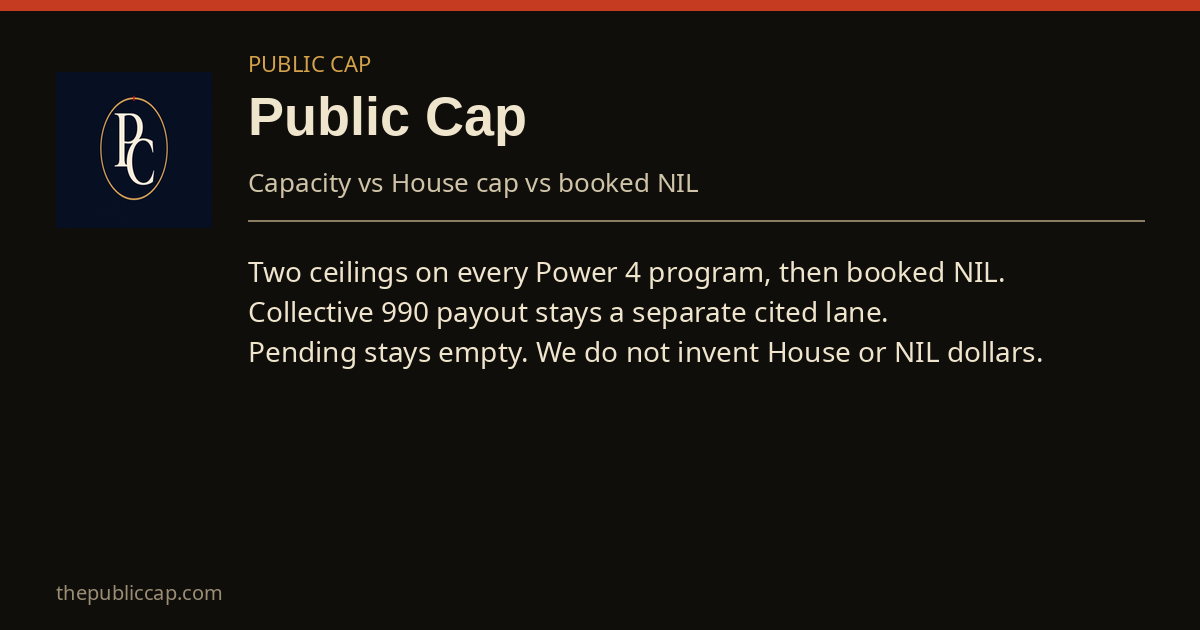
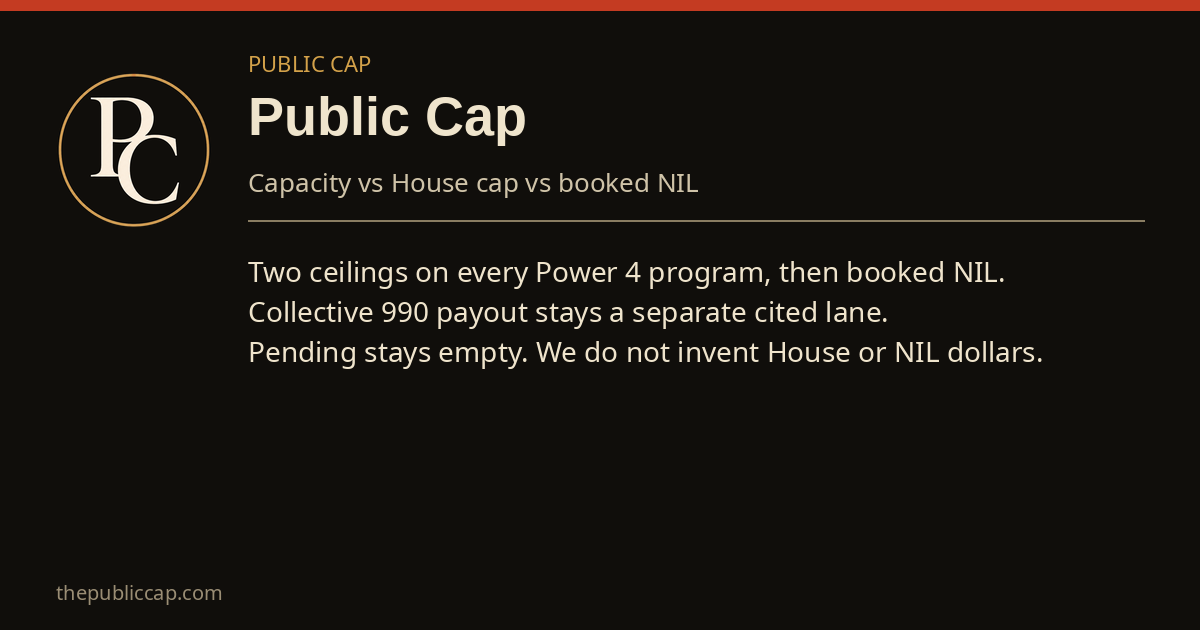
Center the gold PC mark on share cards. (#47)
Heal the 12-o'clock red dash, crop a circular gold-PC lockup, and paste it on the card ink instead of squashing the landscape navy plate into a square tile. Card copy stays the shipped LSU / Texas / SI SEC phrases.

Changed region(s): [[0.0308, 0.0905, 0.185, 0.3619]]

diff --git a/scripts/write-og-images.py b/scripts/write-og-images.py
@@ -4,6 +4,12 @@
 Survey cells that are phrases stay phrases. No invented ranking bars.
 Does not touch data/ or leftover math.
 
+The source mark is a gold PC ring on a landscape navy plate (or a cleaned
+square crop of that ring). We heal the stray red dash at 12 o'clock, crop a
+square around the ring, punch a circular alpha, and flatten the noisy navy
+fill to the card ink so the mark sits on the card — not in a clipped square
+tile. Resize keeps the circle circular.
+
 Run: python3 scripts/write-og-images.py
 """
 from __future__ import annotations
@@ -26,6 +32,7 @@ MUTED = (154, 141, 116, 255)
 RULE = (138, 125, 98, 255)
 
 W, H = 1200, 630
+SITE_MARK_PX = 276  # 3× the 92px mast well
 
 
 def font(path: str, size: int) -> ImageFont.FreeTypeFont:
@@ -50,10 +57,144 @@ def load_fonts() -> dict[str, ImageFont.FreeTypeFont]:
     }
 
 
-def paste_mark(card: Image.Image, dest: tuple[int, int], size: int) -> None:
-    mark = Image.open(MARK).convert("RGBA")
-    mark = mark.resize((size, size), Image.Resampling.LANCZOS)
-    card.paste(mark, dest, mark)
+def _is_red_dash(pixel: tuple[int, ...]) -> bool:
+    r, g, b = pixel[0], pixel[1], pixel[2]
+    return r > 160 and g < 40 and b < 40
+
+
+def _is_gold_ring(pixel: tuple[int, ...]) -> bool:
+    r, g, b, a = pixel[0], pixel[1], pixel[2], pixel[3] if len(pixel) > 3 else 255
+    if a < 16:
+        return False
+    return r > 140 and g > 90 and b < 140 and r > b + 30
+
+
+def _is_navy_fill(pixel: tuple[int, ...]) -> bool:
+    r, g, b, a = pixel[0], pixel[1], pixel[2], pixel[3] if len(pixel) > 3 else 255
+    if a < 16:
+        return False
+    return r < 40 and g < 40 and b < 55
+
+
+def heal_red_dash(im: Image.Image) -> Image.Image:
+    """Replace the 12-o'clock red tick with left/right ring or field neighbors."""
+    im = im.copy()
+    px = im.load()
+    w, h = im.size
+    red: list[tuple[int, int]] = []
+    for y in range(h):
+        for x in range(w):
+            if _is_red_dash(px[x, y]):
+                red.append((x, y))
+    if not red:
+        return im
+    red_set = set(red)
+    for x, y in red:
+        left = right = None
+        for dx in range(1, 32):
+            if left is None and x - dx >= 0 and (x - dx, y) not in red_set:
+                left = px[x - dx, y]
+            if right is None and x + dx < w and (x + dx, y) not in red_set:
+                right = px[x + dx, y]
+            if left is not None and right is not None:
+                break
+        if left is not None and right is not None:
+            px[x, y] = tuple((a + b) // 2 for a, b in zip(left, right))
+        elif left is not None:
+            px[x, y] = left
+        elif right is not None:
+            px[x, y] = right
+    return im
+
+
+def _gold_ring_box(im: Image.Image) -> tuple[float, float, float]:
+    px = im.load()
+    w, h = im.size
+    minx, miny, maxx, maxy = w, h, -1, -1
+    for y in range(h):
+        for x in range(w):
+            if _is_gold_ring(px[x, y]):
+                if x < minx:
+                    minx = x
+                if y < miny:
+                    miny = y
+                if x > maxx:
+                    maxx = x
+                if y > maxy:
+                    maxy = y
+    if maxx < 0:
+        # Already a tight transparent crop — use opaque bounds.
+        minx, miny, maxx, maxy = w, h, -1, -1
+        for y in range(h):
+            for x in range(w):
+                if px[x, y][3] > 16:
+                    if x < minx:
+                        minx = x
+                    if y < miny:
+                        miny = y
+                    if x > maxx:
+                        maxx = x
+                    if y > maxy:
+                        maxy = y
+    if maxx < 0:
+        return w / 2, h / 2, min(w, h) / 2
+    return (minx + maxx) / 2, (miny + maxy) / 2, max(maxx - minx, maxy - miny) / 2
+
+
+def circular_mark(im: Image.Image) -> Image.Image:
+    """Square crop centered on the gold ring, circular alpha, ink field."""
+    im = heal_red_dash(im.convert("RGBA"))
+    cx, cy, rad = _gold_ring_box(im)
+    pad = max(6, int(round(rad * 0.024)))
+    side = int(round(rad * 2 + pad * 2))
+    left = int(round(cx - side / 2))
+    top = int(round(cy - side / 2))
+    canvas = Image.new("RGBA", (side, side), (0, 0, 0, 0))
+    src_w, src_h = im.size
+    crop_left = max(0, left)
+    crop_top = max(0, top)
+    crop_right = min(src_w, left + side)
+    crop_bottom = min(src_h, top + side)
+    region = im.crop((crop_left, crop_top, crop_right, crop_bottom))
+    canvas.paste(region, (crop_left - left, crop_top - top))
+
+    ccx = side / 2 - 0.5
+    ccy = side / 2 - 0.5
+    outer = rad + 3
+    px = canvas.load()
+    for y in range(side):
+        for x in range(side):
+            d = ((x - ccx) ** 2 + (y - ccy) ** 2) ** 0.5
+            r, g, b, a = px[x, y]
+            if _is_navy_fill((r, g, b, a)):
+                r, g, b = INK[0], INK[1], INK[2]
+            if d >= outer + 1.5:
+                px[x, y] = (r, g, b, 0)
+            elif d > outer - 1.5:
+                t = max(0.0, min(1.0, (outer + 1.5 - d) / 3.0))
+                px[x, y] = (r, g, b, int(a * t))
+            else:
+                px[x, y] = (r, g, b, a)
+    return canvas
+
+
+def prepare_mark(source: Image.Image | None = None) -> Image.Image:
+    if source is None:
+        source = Image.open(MARK)
+    return circular_mark(source)
+
+
+def write_site_mark(mark: Image.Image) -> Path:
+    """Ship a square circular mark for the 92px mast (3×)."""
+    out = mark.resize((SITE_MARK_PX, SITE_MARK_PX), Image.Resampling.LANCZOS)
+    out.save(MARK, "PNG", optimize=True)
+    return MARK
+
+
+def paste_mark(card: Image.Image, dest: tuple[int, int], size: int, mark: Image.Image) -> None:
+    # Contain into a square well. Source is already a centered circle.
+    tile = mark.resize((size, size), Image.Resampling.LANCZOS)
+    card.paste(tile, dest, tile)
 
 
 def paint_frame(draw: ImageDraw.ImageDraw, fonts: dict[str, ImageFont.FreeTypeFont]) -> None:
@@ -61,11 +202,11 @@ def paint_frame(draw: ImageDraw.ImageDraw, fonts: dict[str, ImageFont.FreeTypeFo
     draw.text((248, 48), "PUBLIC CAP", font=fonts["kicker"], fill=GOLD)
 
 
-def write_default(fonts: dict[str, ImageFont.FreeTypeFont]) -> Path:
+def write_default(fonts: dict[str, ImageFont.FreeTypeFont], mark: Image.Image) -> Path:
     card = Image.new("RGBA", (W, H), INK)
     draw = ImageDraw.Draw(card)
     paint_frame(draw, fonts)
-    paste_mark(card, (56, 72), 156)
+    paste_mark(card, (56, 72), 156, mark)
     draw.text((248, 86), "Public Cap", font=fonts["title"], fill=PAPER)
     draw.text(
         (248, 164),
@@ -88,12 +229,12 @@ def write_default(fonts: dict[str, ImageFont.FreeTypeFont]) -> Path:
     return path
 
 
-def write_reported_nil(fonts: dict[str, ImageFont.FreeTypeFont]) -> Path:
+def write_reported_nil(fonts: dict[str, ImageFont.FreeTypeFont], mark: Image.Image) -> Path:
     """Honest labels only: LSU published range, Texas survey words, SI SEC band."""
     card = Image.new("RGBA", (W, H), INK)
     draw = ImageDraw.Draw(card)
     paint_frame(draw, fonts)
-    paste_mark(card, (56, 56), 148)
+    paste_mark(card, (56, 56), 148, mark)
     draw.text((232, 78), "Reported NIL by school", font=fonts["title"], fill=PAPER)
     draw.text(
         (232, 150),
@@ -146,7 +287,9 @@ def main() -> None:
     if not MARK.exists():
         raise SystemExit(f"missing mark: {MARK}")
     fonts = load_fonts()
-    for path in (write_default(fonts), write_reported_nil(fonts)):
+    mark = prepare_mark()
+    write_site_mark(mark)
+    for path in (MARK, write_default(fonts, mark), write_reported_nil(fonts, mark)):
         print(f"{path.name}  {path.stat().st_size} bytes")
 
 
